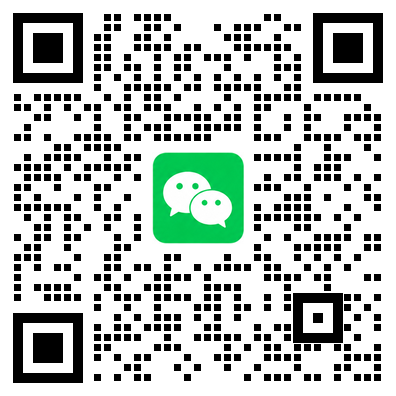
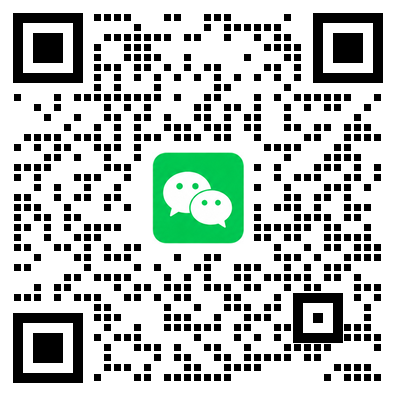
updata

diff --git a/index.html b/index.html
@@ -5,7 +5,7 @@
 
     <meta
       property="og:image"
-      content="https://yulianpw.github.io/assets/images/rainlove-customer-service-social-cover.jpg?v=2026112201"
+      content="https://yulianpw.github.io/assets/images/rainlove-wecom-social-cover.jpg?v=2026112301"
     />
     <meta property="og:image:width" content="1672" />
     <meta property="og:image:height" content="941" />
@@ -21,7 +21,7 @@
     <meta name="twitter:card" content="summary_large_image" />
     <meta
       name="twitter:image"
-      content="https://yulianpw.github.io/assets/images/rainlove-customer-service-social-cover.jpg?v=2026112201"
+      content="https://yulianpw.github.io/assets/images/rainlove-wecom-social-cover.jpg?v=2026112301"
     />
     <meta name="twitter:image:alt" content="雨恋女陪殿" />
     <meta name="twitter:title" content="雨恋女陪殿" />
@@ -1259,8 +1259,8 @@
 
       <img
         class="qrcode"
-        src="assets/images/rainlove-customer-service-qr.png?v=2026112201"
-        alt="雨恋客服二维码"
+        src="assets/images/rainlove-wecom-qr.png?v=2026112301"
+        alt="雨恋企微二维码"
         width="180"
         height="180"
         decoding="async"
@@ -1418,7 +1418,7 @@
       const LOCAL_MEDIA_FOLDER_PATTERN =
         /^[a-z0-9](?:[a-z0-9-]{0,62}[a-z0-9])?$/;
       const VISUAL_CACHE_ASSETS = [
-        "assets/images/rainlove-customer-service-qr.png?v=2026112201",
+        "assets/images/rainlove-wecom-qr.png?v=2026112301",
       ];
       const VALID_TAGS = ["绿色陪", "女喘陪", "视频陪", "未进店"];
       const HEADLINER_LIMITS = { 视频陪: 3, 女喘陪: 5 };

diff --git a/recruit.html b/recruit.html
@@ -15,7 +15,7 @@
     />
     <meta
       property="og:image"
-      content="https://yulianpw.github.io/assets/images/rainlove-customer-service-social-cover.jpg?v=2026112201"
+      content="https://yulianpw.github.io/assets/images/rainlove-wecom-social-cover.jpg?v=2026112301"
     />
     <meta property="og:type" content="website" />
     <title>雨恋Club｜陪陪应聘说明</title>
